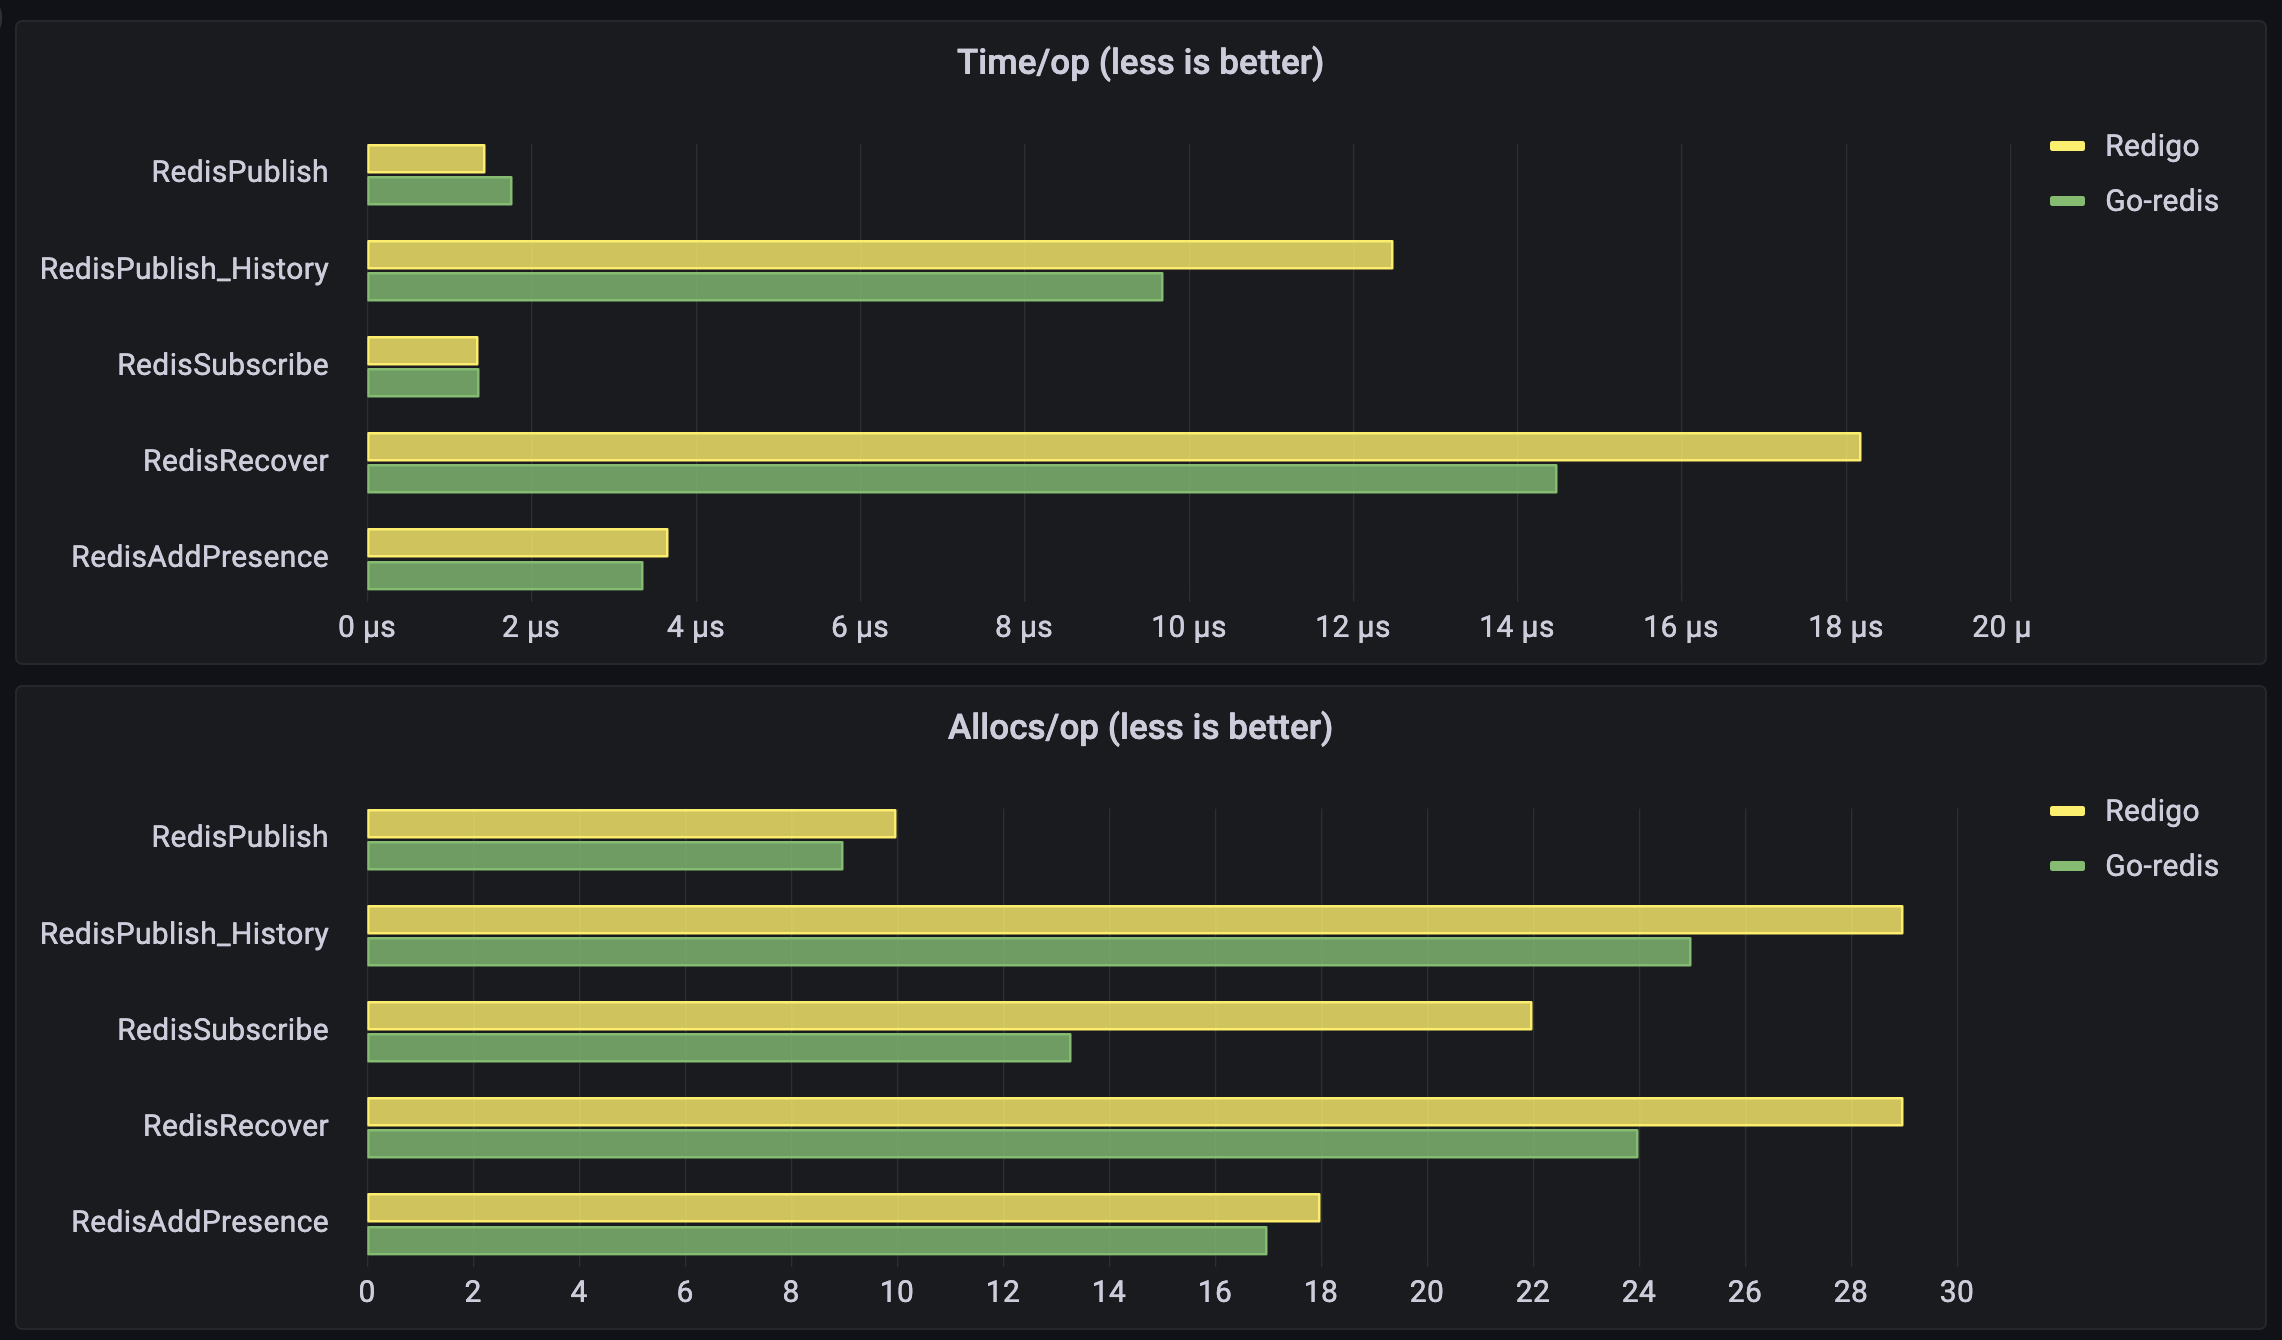
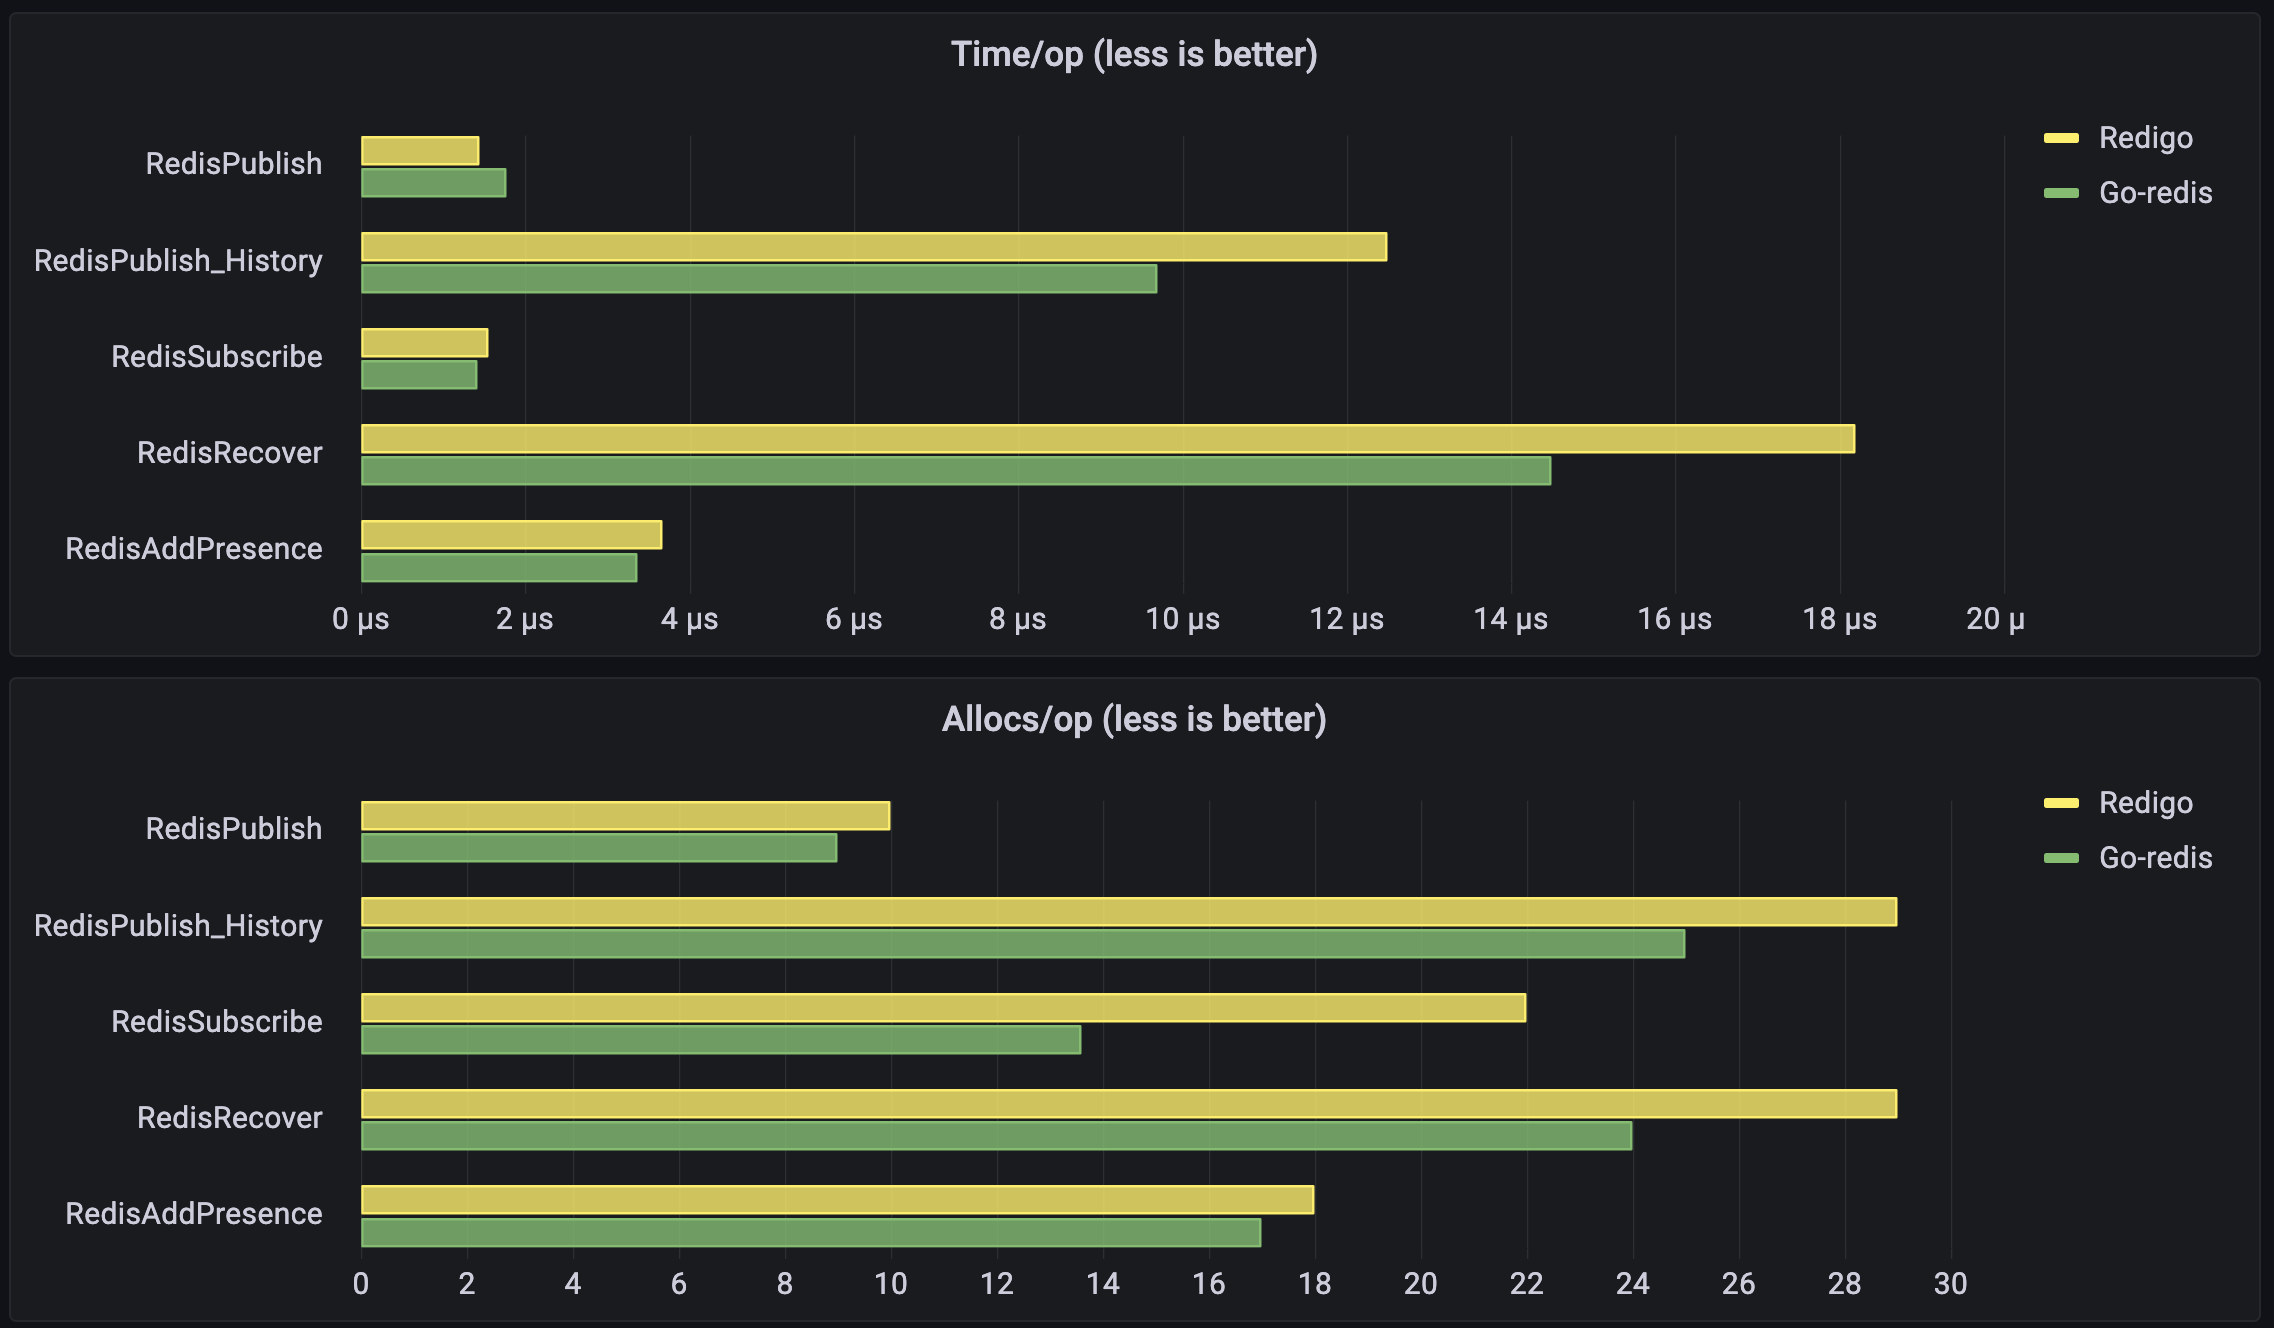
up rueidis

diff --git a/blog/2022-11-30-improving-redis-engine-performance.md b/blog/2022-11-30-improving-redis-engine-performance.md
@@ -326,21 +326,21 @@ Here are the benchmark results we got when comparing `redigo` (v1.8.9) implement
 name                      old time/op    new time/op    delta
 RedisPublish-8            1.45µs ± 6%    1.78µs ± 2%  +22.30%  (p=0.000 n=9+9)
 RedisPublish_History-8    12.5µs ± 7%     9.7µs ± 3%  -22.40%  (p=0.000 n=10+10)
-RedisSubscribe-8          1.36µs ±26%    1.38µs ± 3%     ~     (p=0.195 n=10+8)
+RedisSubscribe-8          1.56µs ±32%    1.42µs ±11%     ~     (p=0.290 n=30+28)
 RedisRecover-8            18.2µs ± 3%    14.5µs ± 2%  -20.11%  (p=0.000 n=10+10)
 RedisAddPresence-8        3.68µs ± 1%    3.37µs ± 3%   -8.36%  (p=0.000 n=10+10)
 
 name                     old alloc/op   new alloc/op   delta
 RedisPublish-8              483B ± 0%      499B ± 0%   +3.31%  (p=0.000 n=10+8)
 RedisPublish_History-8    1.30kB ± 0%    1.08kB ± 0%  -16.69%  (p=0.000 n=8+8)
-RedisSubscribe-8            893B ± 1%      665B ± 4%  -25.58%  (p=0.000 n=9+10)
+RedisSubscribe-8            896B ± 1%      662B ± 8%  -26.18%  (p=0.000 n=30+30)
 RedisRecover-8            1.25kB ± 0%    1.02kB ± 0%  -18.29%  (p=0.000 n=10+10)
 RedisAddPresence-8          907B ± 0%      827B ± 0%   -8.78%  (p=0.000 n=10+8)
 
 name                    old allocs/op  new allocs/op  delta
 RedisPublish-8              10.0 ± 0%       9.0 ± 0%  -10.00%  (p=0.000 n=10+10)
 RedisPublish_History-8      29.0 ± 0%      25.0 ± 0%  -13.79%  (p=0.000 n=10+10)
-RedisSubscribe-8            22.0 ± 0%      13.3 ± 5%  -39.55%  (p=0.000 n=8+10)
+RedisSubscribe-8            22.0 ± 0%      13.6 ±12%  -38.33%  (p=0.000 n=30+30)
 RedisRecover-8              29.0 ± 0%      24.0 ± 0%  -17.24%  (p=0.000 n=10+10)
 RedisAddPresence-8          18.0 ± 0%      17.0 ± 0%   -5.56%  (p=0.000 n=10+10)
 ```
@@ -427,28 +427,28 @@ Until `v0.0.80` release `rueidis` did not support RESP2 though, so we could not 
 
 Since auto-pipelining is used in `rueidis` by default we were able to remove some of our own pipelining management code – so the Engine implementation is more concise now. One more thing to mention is a simpler PUB/SUB code we were able to write with `rueidis`. In `redigo` case we had to periodically PING PUB/SUB connection to maintain it alive, `rueidis` does this automatically.
 
-Regarding performance, here are the benchmark results we got when comparing `redigo` (v1.8.9) implementation (old) and `rueidis` (v0.0.83) implementation (new):
+Regarding performance, here are the benchmark results we got when comparing `redigo` (v1.8.9) implementation (old) and `rueidis` (v0.0.86) implementation (new):
 
 ```
 ❯ benchstat redigo.txt rueidis.txt
 name                      old time/op    new time/op    delta
 RedisPublish-8            1.45µs ± 6%    0.59µs ± 3%  -59.67%  (p=0.000 n=9+8)
 RedisPublish_History-8    12.5µs ± 7%     9.7µs ± 0%  -22.28%  (p=0.000 n=10+10)
-RedisSubscribe-8          1.36µs ±26%    1.60µs ± 8%  +17.90%  (p=0.007 n=10+10)
+RedisSubscribe-8          1.56µs ±32%    1.57µs ± 9%     ~     (p=0.975 n=30+28)
 RedisRecover-8            18.2µs ± 3%    10.9µs ± 1%  -40.01%  (p=0.000 n=10+10)
 RedisAddPresence-8        3.68µs ± 1%    3.54µs ± 0%   -3.86%  (p=0.000 n=10+9)
 
 name                     old alloc/op   new alloc/op   delta
 RedisPublish-8              483B ± 0%      171B ± 0%  -64.66%  (p=0.000 n=10+10)
 RedisPublish_History-8    1.30kB ± 0%    0.55kB ± 1%  -57.68%  (p=0.000 n=8+10)
-RedisSubscribe-8            893B ± 1%      841B ± 6%   -5.85%  (p=0.000 n=9+10)
+RedisSubscribe-8            896B ± 1%      699B ± 0%  -22.07%  (p=0.000 n=30+30)
 RedisRecover-8            1.25kB ± 0%    0.59kB ± 1%  -53.08%  (p=0.000 n=10+10)
 RedisAddPresence-8          907B ± 0%      149B ± 2%  -83.52%  (p=0.000 n=10+10)
 
 name                    old allocs/op  new allocs/op  delta
 RedisPublish-8              10.0 ± 0%       3.0 ± 0%  -70.00%  (p=0.000 n=10+10)
 RedisPublish_History-8      29.0 ± 0%      12.0 ± 0%  -58.62%  (p=0.000 n=10+10)
-RedisSubscribe-8            22.0 ± 0%      10.0 ± 0%  -54.55%  (p=0.002 n=8+10)
+RedisSubscribe-8            22.0 ± 0%      10.0 ± 0%  -54.55%  (p=0.000 n=30+30)
 RedisRecover-8              29.0 ± 0%      11.0 ± 0%  -62.07%  (p=0.000 n=10+10)
 RedisAddPresence-8          18.0 ± 0%       3.0 ± 0%  -83.33%  (p=0.000 n=10+10)
 ```
@@ -457,7 +457,7 @@ Or visualized in Grafana:
 
 ![](/img/redis_vis02.png)
 
-2.5x times more publication throughput than we had before! Instead of 700k publications/sec we went towards 1.7 million publications/sec due to drastically decreased publish operation latency (1.45µs -> 0.59µs). This obviously means that our previous Engine implementations under-utilized Redis, and Rueidis just pushes us towards Redis limits. The latency of most other operations is also reduced (except for `Subscribe`).
+2.5x times more publication throughput than we had before! Instead of 700k publications/sec we went towards 1.7 million publications/sec due to drastically decreased publish operation latency (1.45µs -> 0.59µs). This obviously means that our previous Engine implementations under-utilized Redis, and Rueidis just pushes us towards Redis limits. The latency of most other operations is also reduced.
 
 The best thing is allocation efficiency of the `rueidis`-based implementation. As you can see `rueidis` helped us to generate sufficiently less memory allocations for all our Redis operations. Allocation improvements directly affect Centrifugo node CPU usage. So Centrifugo users with Redis Engine may expect CPU usage reduction upon switching to Centrifugo v4.1.0. Of course it's not a two times CPU reduction since Centrifugo node does many other things beyond Redis communication. On our test stand we observed a 20% overall CPU drop, but obviously this number will vary in both directions depending on load profile and used Centrifugo features.
 
